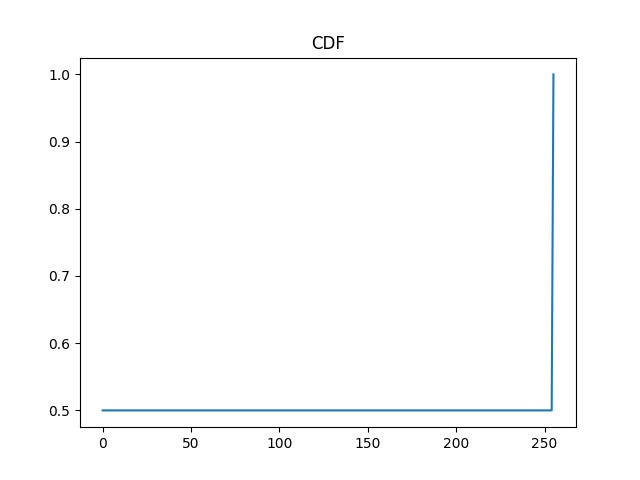
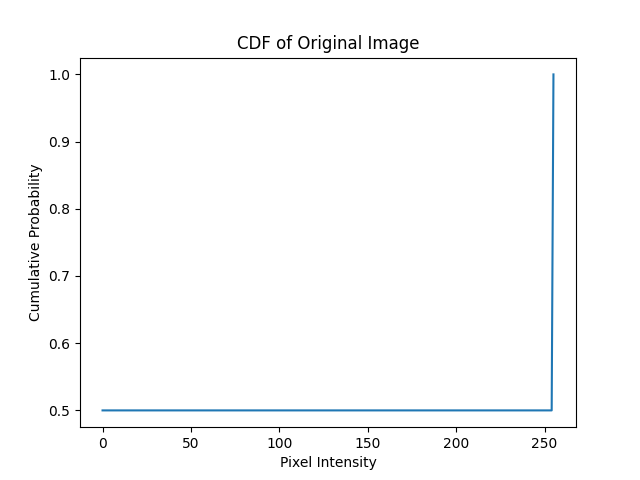
Enhance image processing in assignment 1: add histogram and CDF calculations, Gaussian blur, FFT filtering, and histogram equalization with visualizations.

Changed region(s): [[0.375, 0.0625, 0.6562, 0.125], [0.0312, 0.3438, 0.0625, 0.6875], [0.4375, 0.9375, 0.5938, 0.9688]]

diff --git a/code/checkerboard_processing.py b/code/checkerboard_processing.py
@@ -1,28 +1,70 @@
 import cv2
 import numpy as np
 import matplotlib.pyplot as plt
+import os
 
+# Ensure output folder exists
+os.makedirs("images", exist_ok=True)
+
+# === Load grayscale checkerboard image ===
 img = cv2.imread("images/checkerboard.png", cv2.IMREAD_GRAYSCALE)
 
-# Histogram and CDF
+# === 2.2 Histogram and CDF ===
 hist = cv2.calcHist([img], [0], None, [256], [0, 256])
 cdf = hist.cumsum() / hist.sum()
-plt.plot(cdf)
-plt.title("CDF")
-plt.savefig("images/cdf.png")
 
-# Gaussian Blur
+plt.figure()
+plt.plot(cdf)
+plt.title("CDF of Original Image")
+plt.xlabel("Pixel Intensity")
+plt.ylabel("Cumulative Probability")
+plt.savefig("images/cdf.png")
+plt.close()
+
+# === 2.3 Gaussian Blur (Spatial Low-pass Filter) ===
 blurred = cv2.GaussianBlur(img, (5, 5), 1.0)
 cv2.imwrite("images/blurred.png", blurred)
 
-# FFT Low-pass Filtering
+# === 2.5 FFT-based Frequency Domain Low-pass Filter ===
 f = np.fft.fft2(img)
 fshift = np.fft.fftshift(f)
+
 rows, cols = img.shape
 crow, ccol = rows // 2, cols // 2
+
+# Create a low-pass filter mask
 mask = np.zeros_like(img)
 mask[crow-30:crow+30, ccol-30:ccol+30] = 1
+
 filtered_fshift = fshift * mask
 f_ishift = np.fft.ifftshift(filtered_fshift)
 filtered_img = np.fft.ifft2(f_ishift).real.astype(np.uint8)
+
 cv2.imwrite("images/frequency_filtered.png", filtered_img)
+
+# === 2.6 Histogram of Frequency Filtered Image ===
+filtered_hist = cv2.calcHist([filtered_img], [0], None, [256], [0, 256])
+plt.figure()
+plt.plot(filtered_hist)
+plt.title("Histogram of Frequency Filtered Image")
+plt.xlabel("Pixel Intensity")
+plt.ylabel("Frequency")
+plt.savefig("images/frequency_histogram.png")
+plt.close()
+
+# === 2.7 Histogram Equalisation using CDF of Blurred Image ===
+blurred_hist = cv2.calcHist([blurred], [0], None, [256], [0, 256])
+blurred_cdf = blurred_hist.cumsum() / blurred_hist.sum()
+cdf_normalized = blurred_cdf * 255 / blurred_cdf[-1]
+
+equalized = np.interp(blurred.flatten(), range(256), cdf_normalized).reshape(img.shape).astype(np.uint8)
+cv2.imwrite("images/equalized.png", equalized)
+
+equalized_hist = cv2.calcHist([equalized], [0], None, [256], [0, 256])
+plt.figure()
+plt.plot(equalized_hist)
+plt.title("Histogram After Equalisation")
+plt.xlabel("Pixel Intensity")
+plt.ylabel("Frequency")
+plt.savefig("images/equalized_histogram.png")
+plt.close()

diff --git a/assignment1.md b/assignment1.md
@@ -1,8 +1,8 @@
 # Assignment 1 – AIML331 2025  
 **Name:** Khai Dye-Brinkman  
-**Student ID:** 300550065
+**Student ID:** 300550065  
 **Date:** April 03, 2025  
-**Code Repository:** ([https://github.com/KhaiShea/aiml331-assignment1](https://github.com/KhaiShea/aiml331-assignment1))
+**Code Repository:** [https://github.com/KhaiShea/aiml331-assignment1](https://github.com/KhaiShea/aiml331-assignment1)
 
 ---
 
@@ -63,32 +63,39 @@ Image: https://upload.wikimedia.org/wikipedia/commons/3/3c/Checkerboard_pattern.
 ### 2.2 Histogram and Cumulative Probability Function
 
 ```python
-import cv2
-import matplotlib.pyplot as plt
-
-img = cv2.imread('checkerboard.png', cv2.IMREAD_GRAYSCALE)
+img = cv2.imread("images/checkerboard.png", cv2.IMREAD_GRAYSCALE)
 hist = cv2.calcHist([img], [0], None, [256], [0, 256])
 cdf = hist.cumsum() / hist.sum()
+
 plt.plot(cdf)
-plt.title("CDF")
-plt.show()
+plt.title("CDF of Original Image")
+plt.savefig("images/cdf.png")
 ```
+
+![CDF Plot](images/cdf.png)
+
+---
 
 ### 2.3 Spatial Low-pass Filter
 
 ```python
 blurred = cv2.GaussianBlur(img, (5, 5), 1.0)
+cv2.imwrite("images/blurred.png", blurred)
 ```
+
+![Blurred Image](images/blurred.png)
+
+---
 
 ### 2.4 Separable Filter?
 
 Yes — the Gaussian filter is separable.
 
+---
+
 ### 2.5 Frequency Domain Low-pass Filter
 
 ```python
-import numpy as np
-
 f = np.fft.fft2(img)
 fshift = np.fft.fftshift(f)
 rows, cols = img.shape
@@ -98,20 +105,46 @@ mask[crow-30:crow+30, ccol-30:ccol+30] = 1
 filtered_fshift = fshift * mask
 f_ishift = np.fft.ifftshift(filtered_fshift)
 filtered_img = np.fft.ifft2(f_ishift).real.astype(np.uint8)
+cv2.imwrite("images/frequency_filtered.png", filtered_img)
 ```
 
-### 2.6 Histogram of Filtered Image
+![Frequency Filtered Image](images/frequency_filtered.png)
+
+---
+
+### 2.6 Histogram of Frequency Filtered Image
 
 ```python
 filtered_hist = cv2.calcHist([filtered_img], [0], None, [256], [0, 256])
 plt.plot(filtered_hist)
-plt.title("Histogram of Filtered Image")
-plt.show()
+plt.title("Histogram of Frequency Filtered Image")
+plt.savefig("images/frequency_histogram.png")
 ```
+
+![Histogram of Frequency Filtered Image](images/frequency_histogram.png)
+
+---
 
 ### 2.7 Histogram Equalisation using CDF
 
 ```python
-cdf_normalized = cdf * 255 / cdf[-1]
-equalized = np.interp(blurred.flatten(), range(256), cdf_normalized).reshape(img.shape)
+blurred_hist = cv2.calcHist([blurred], [0], None, [256], [0, 256])
+blurred_cdf = blurred_hist.cumsum() / blurred_hist.sum()
+cdf_normalized = blurred_cdf * 255 / blurred_cdf[-1]
+
+equalized = np.interp(blurred.flatten(), range(256), cdf_normalized).reshape(img.shape).astype(np.uint8)
+cv2.imwrite("images/equalized.png", equalized)
 ```
+
+#### Equalised Image:
+![Equalised Image](images/equalized.png)
+
+#### Histogram After Equalisation:
+```python
+equalized_hist = cv2.calcHist([equalized], [0], None, [256], [0, 256])
+plt.plot(equalized_hist)
+plt.title("Histogram After Equalisation")
+plt.savefig("images/equalized_histogram.png")
+```
+
+![Histogram After Equalisation](images/equalized_histogram.png)
